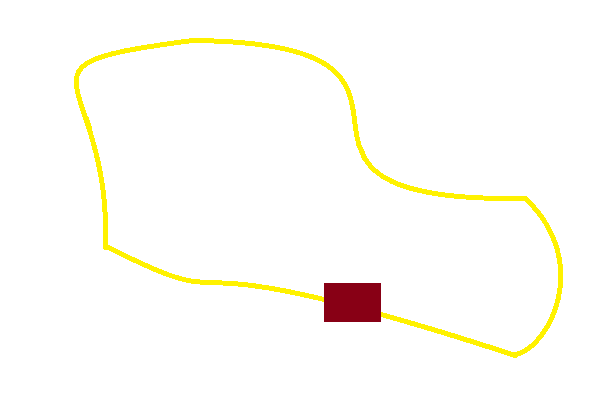
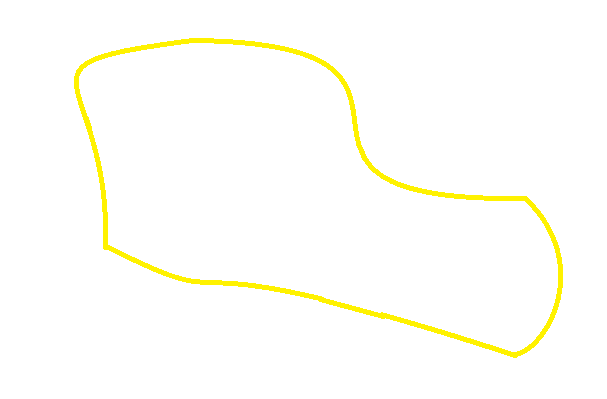
Added Car + basic methodes for movement

Changed region(s): [[0.5338, 0.6917, 0.6524, 0.812]]

diff --git a/src/mainFrame.cpp b/src/mainFrame.cpp
@@ -34,7 +34,6 @@ mainFrame::mainFrame(const wxString &title): wxFrame(nullptr, wxID_ANY, title, w
     wxStaticText* simSpeedText = new wxStaticText(mainPanel, wxID_ANY, wxT("Simulation speed (1-100)"),
                                                 wxPoint(50, 200), wxSize(100, -1));
 
-
     //showing track
     wxImage::AddHandler(new wxPNGHandler());
     wxImage::AddHandler(new wxJPEGHandler());
@@ -45,6 +44,8 @@ mainFrame::mainFrame(const wxString &title): wxFrame(nullptr, wxID_ANY, title, w
     wxStaticBitmap* radarBitmap = new wxStaticBitmap(mapBitmap, wxID_ANY, wxBitmap(wxT("../tmp/radar.png"), wxBITMAP_TYPE_PNG),
                                                      wxPoint(0, 0), wxSize(-1, -1));
 
+    wxStaticBitmap* carBitmap = new wxStaticBitmap(mapBitmap, wxID_ANY, wxBitmap(wxT("../tmp/car.png"), wxBITMAP_TYPE_PNG),
+                                                         wxPoint(10, 10), wxSize(50, 25));
 
     //radar movement
     radarPosXSlider->Bind(wxEVT_SLIDER, [radarBitmap, mapBitmap](wxCommandEvent& event) {
@@ -53,6 +54,7 @@ mainFrame::mainFrame(const wxString &title): wxFrame(nullptr, wxID_ANY, title, w
         int newXPos = (mapWidth * xPosPercentage) / 100;
         int yPos = radarBitmap->GetPosition().y;
         radarBitmap->SetPosition(wxPoint(newXPos, yPos));
+        radarBitmap->Refresh();
     });
     radarPosYSlider->Bind(wxEVT_SLIDER, [radarBitmap, mapBitmap](wxCommandEvent& event) {
         int yPosPercentage = event.GetInt();
@@ -60,6 +62,7 @@ mainFrame::mainFrame(const wxString &title): wxFrame(nullptr, wxID_ANY, title, w
         int newYPos = (mapHeight * yPosPercentage) / 100;
         int xPos = radarBitmap->GetPosition().x;
         radarBitmap->SetPosition(wxPoint(xPos, newYPos));
+        radarBitmap->Refresh();
     });
 
     //handlers
@@ -67,6 +70,14 @@ mainFrame::mainFrame(const wxString &title): wxFrame(nullptr, wxID_ANY, title, w
     newWindowCheckBox->Bind(wxEVT_CHECKBOX, &eventHandlers::newWindowCheckBoxHandler, &handlers);
     carSpeedControllerHandler->Bind(wxEVT_SPINCTRL, &eventHandlers::carSpeedControllerHandler, &handlers);
     simSpeedSpinController->Bind(wxEVT_SPINCTRL, &eventHandlers::simSpeedControllerHandler, &handlers);
+
+    //car
+    wxTimer* carTimer = new wxTimer(this);
+    Vehicle* vehicle = new Vehicle(carBitmap);
+
+    vehicle->followPath(carTimer, carSpeedControllerHandler);
+
+
 
     CreateStatusBar();
 }

diff --git a/src/vehicle.cpp b/src/vehicle.cpp
@@ -1,11 +1,45 @@
-//
-// Created by mateu on 14.10.2024.
-//
-
 #include "../lib/vehicle.h"
 
-vehicle::vehicle() {
+Vehicle::Vehicle(wxStaticBitmap* carBitmap) : carBitmap(carBitmap), currentPointIndex(0) {
+    loadPath();
 }
 
-vehicle::~vehicle() {
+void Vehicle::loadPath() {
+    carPath.push_back(wxPoint(150, 100));
+    carPath.push_back(wxPoint(200, 120));
+    carPath.push_back(wxPoint(250, 140));
+    carPath.push_back(wxPoint(300, 160));
+    carPath.push_back(wxPoint(350, 180));
+    carPath.push_back(wxPoint(400, 200));
+    carPath.push_back(wxPoint(450, 220));
+}
+
+void Vehicle::followPath(wxTimer* carTimer, wxSpinCtrl* carSpeedControllerHandler) {
+    carTimer->Start(100);
+
+    carTimer->Bind(wxEVT_TIMER, [this, carSpeedControllerHandler](wxTimerEvent&) {
+        if (currentPointIndex >= carPath.size()) {
+            currentPointIndex = 0;
+        }
+
+        int speed = carSpeedControllerHandler->GetValue();
+
+        wxPoint currentPos = carBitmap->GetPosition();
+        posX = currentPos.x;
+        posY = currentPos.y;
+        wxPoint targetPos = carPath[currentPointIndex];
+
+        int deltaX = targetPos.x - currentPos.x;
+        int deltaY = targetPos.y - currentPos.y;
+
+        if (abs(deltaX) <= speed && abs(deltaY) <= speed) {
+            carBitmap->SetPosition(targetPos);
+            currentPointIndex++;
+        } else {
+            double angle = atan2(deltaY, deltaX);
+            int newX = currentPos.x + static_cast<int>(cos(angle) * speed);
+            int newY = currentPos.y + static_cast<int>(sin(angle) * speed);
+            carBitmap->SetPosition(wxPoint(newX, newY));
+        }
+    }, carTimer->GetId());
 }

diff --git a/lib/vehicle.h b/lib/vehicle.h
@@ -1,18 +1,25 @@
 #ifndef VEHICLE_H
 #define VEHICLE_H
 
+#include <vector>
+#include <wx/wx.h>
+#include <cmath>
+#include <wx/msw/spinctrl.h>
 
-
-class vehicle {
+class Vehicle {
 public:
-    int speed = 0;
-    int positionX = 0;
-    int positionY = 0;
+    Vehicle(wxStaticBitmap* carBitmap);
+    void followPath(wxTimer* carTimer, wxSpinCtrl* carSpeedControllerHandler);
 
-    vehicle();
-    ~vehicle();
+    int posX;
+    int posY;
+
+private:
+    wxStaticBitmap* carBitmap;
+    std::vector<wxPoint> carPath;
+    size_t currentPointIndex;
+
+    void loadPath();
 };
 
-
-
-#endif //VEHICLE_H
+#endif // VEHICLE_H

diff --git a/lib/mainFrame.h b/lib/mainFrame.h
@@ -4,6 +4,8 @@
 #include <wx/wx.h>
 #include <wx/spinctrl.h>
 #include "eventHandlers.h"
+#include "vehicle.h"
+
 
 class mainFrame : public wxFrame {
 public:
